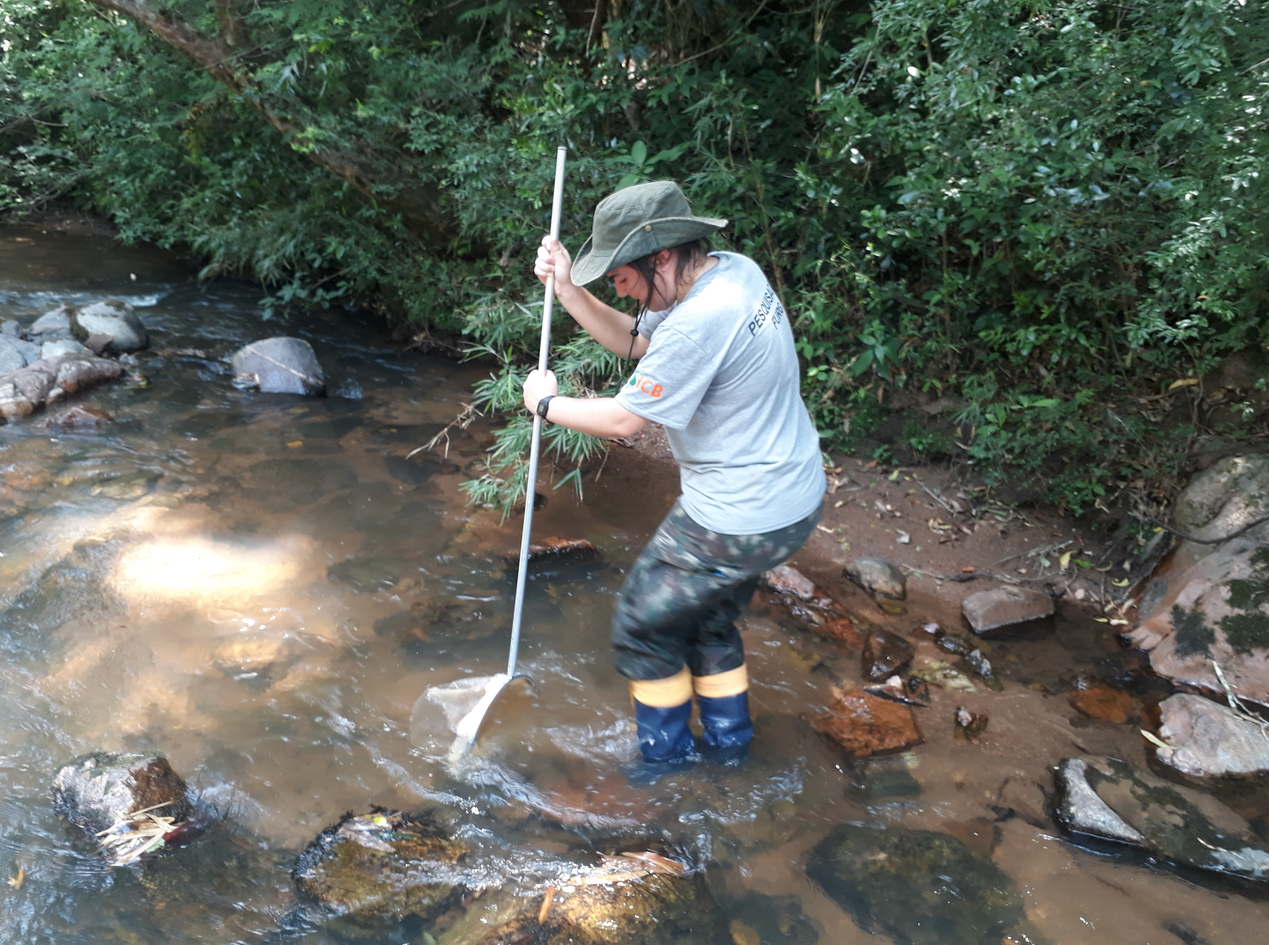
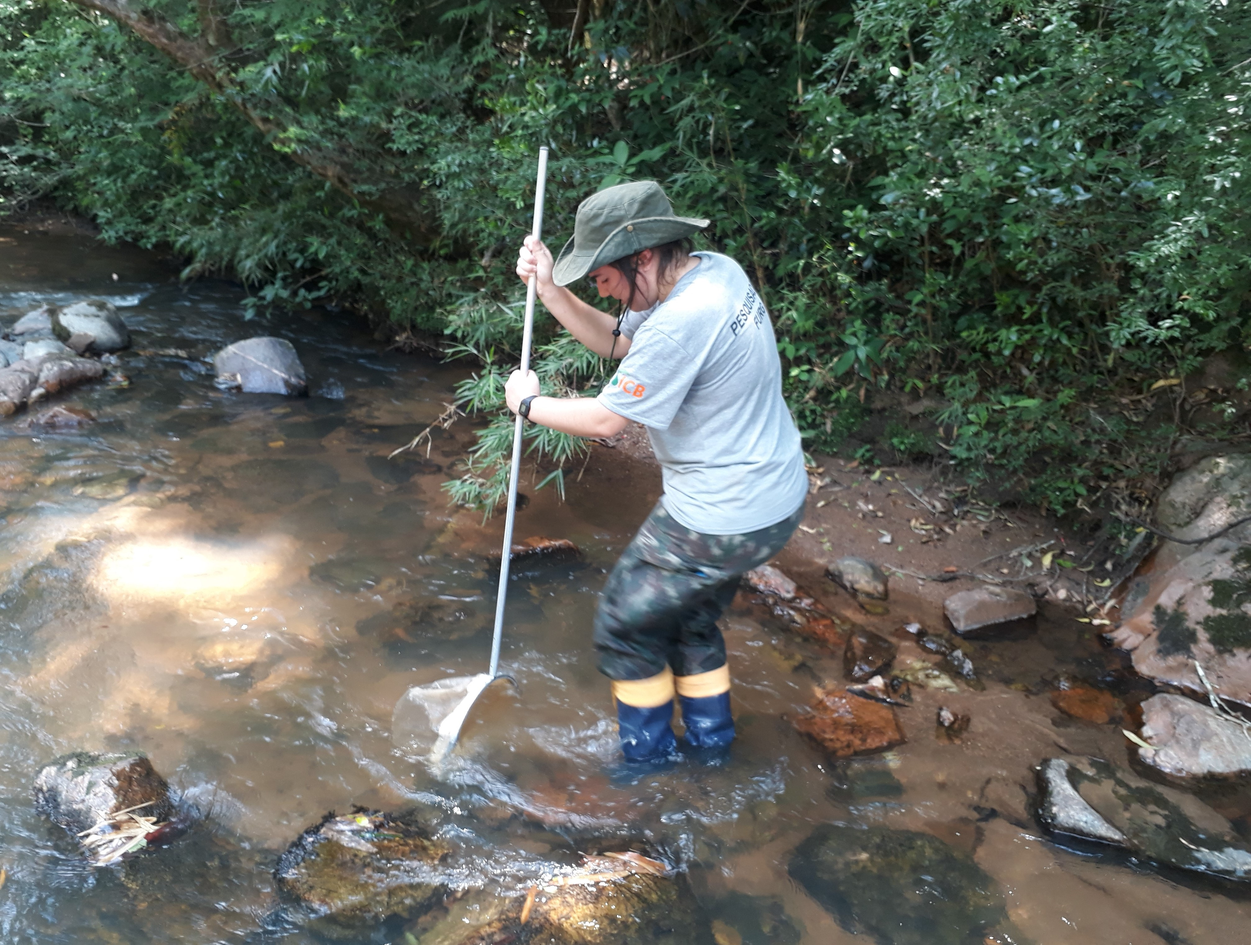
11

diff --git a/content/home/gallery/index.md b/content/home/gallery/index.md
@@ -52,7 +52,7 @@ caption = "Microcosms experiment on the effects of increased water temperature o
 
 [[gallery_item]] 
 album = "gallery" 
-image = "img17.JPG" 
+image = "img17.jpg" 
 caption = "Microcosms experiment on the effects of increased water temperature on benthic diatoms"
 
 
